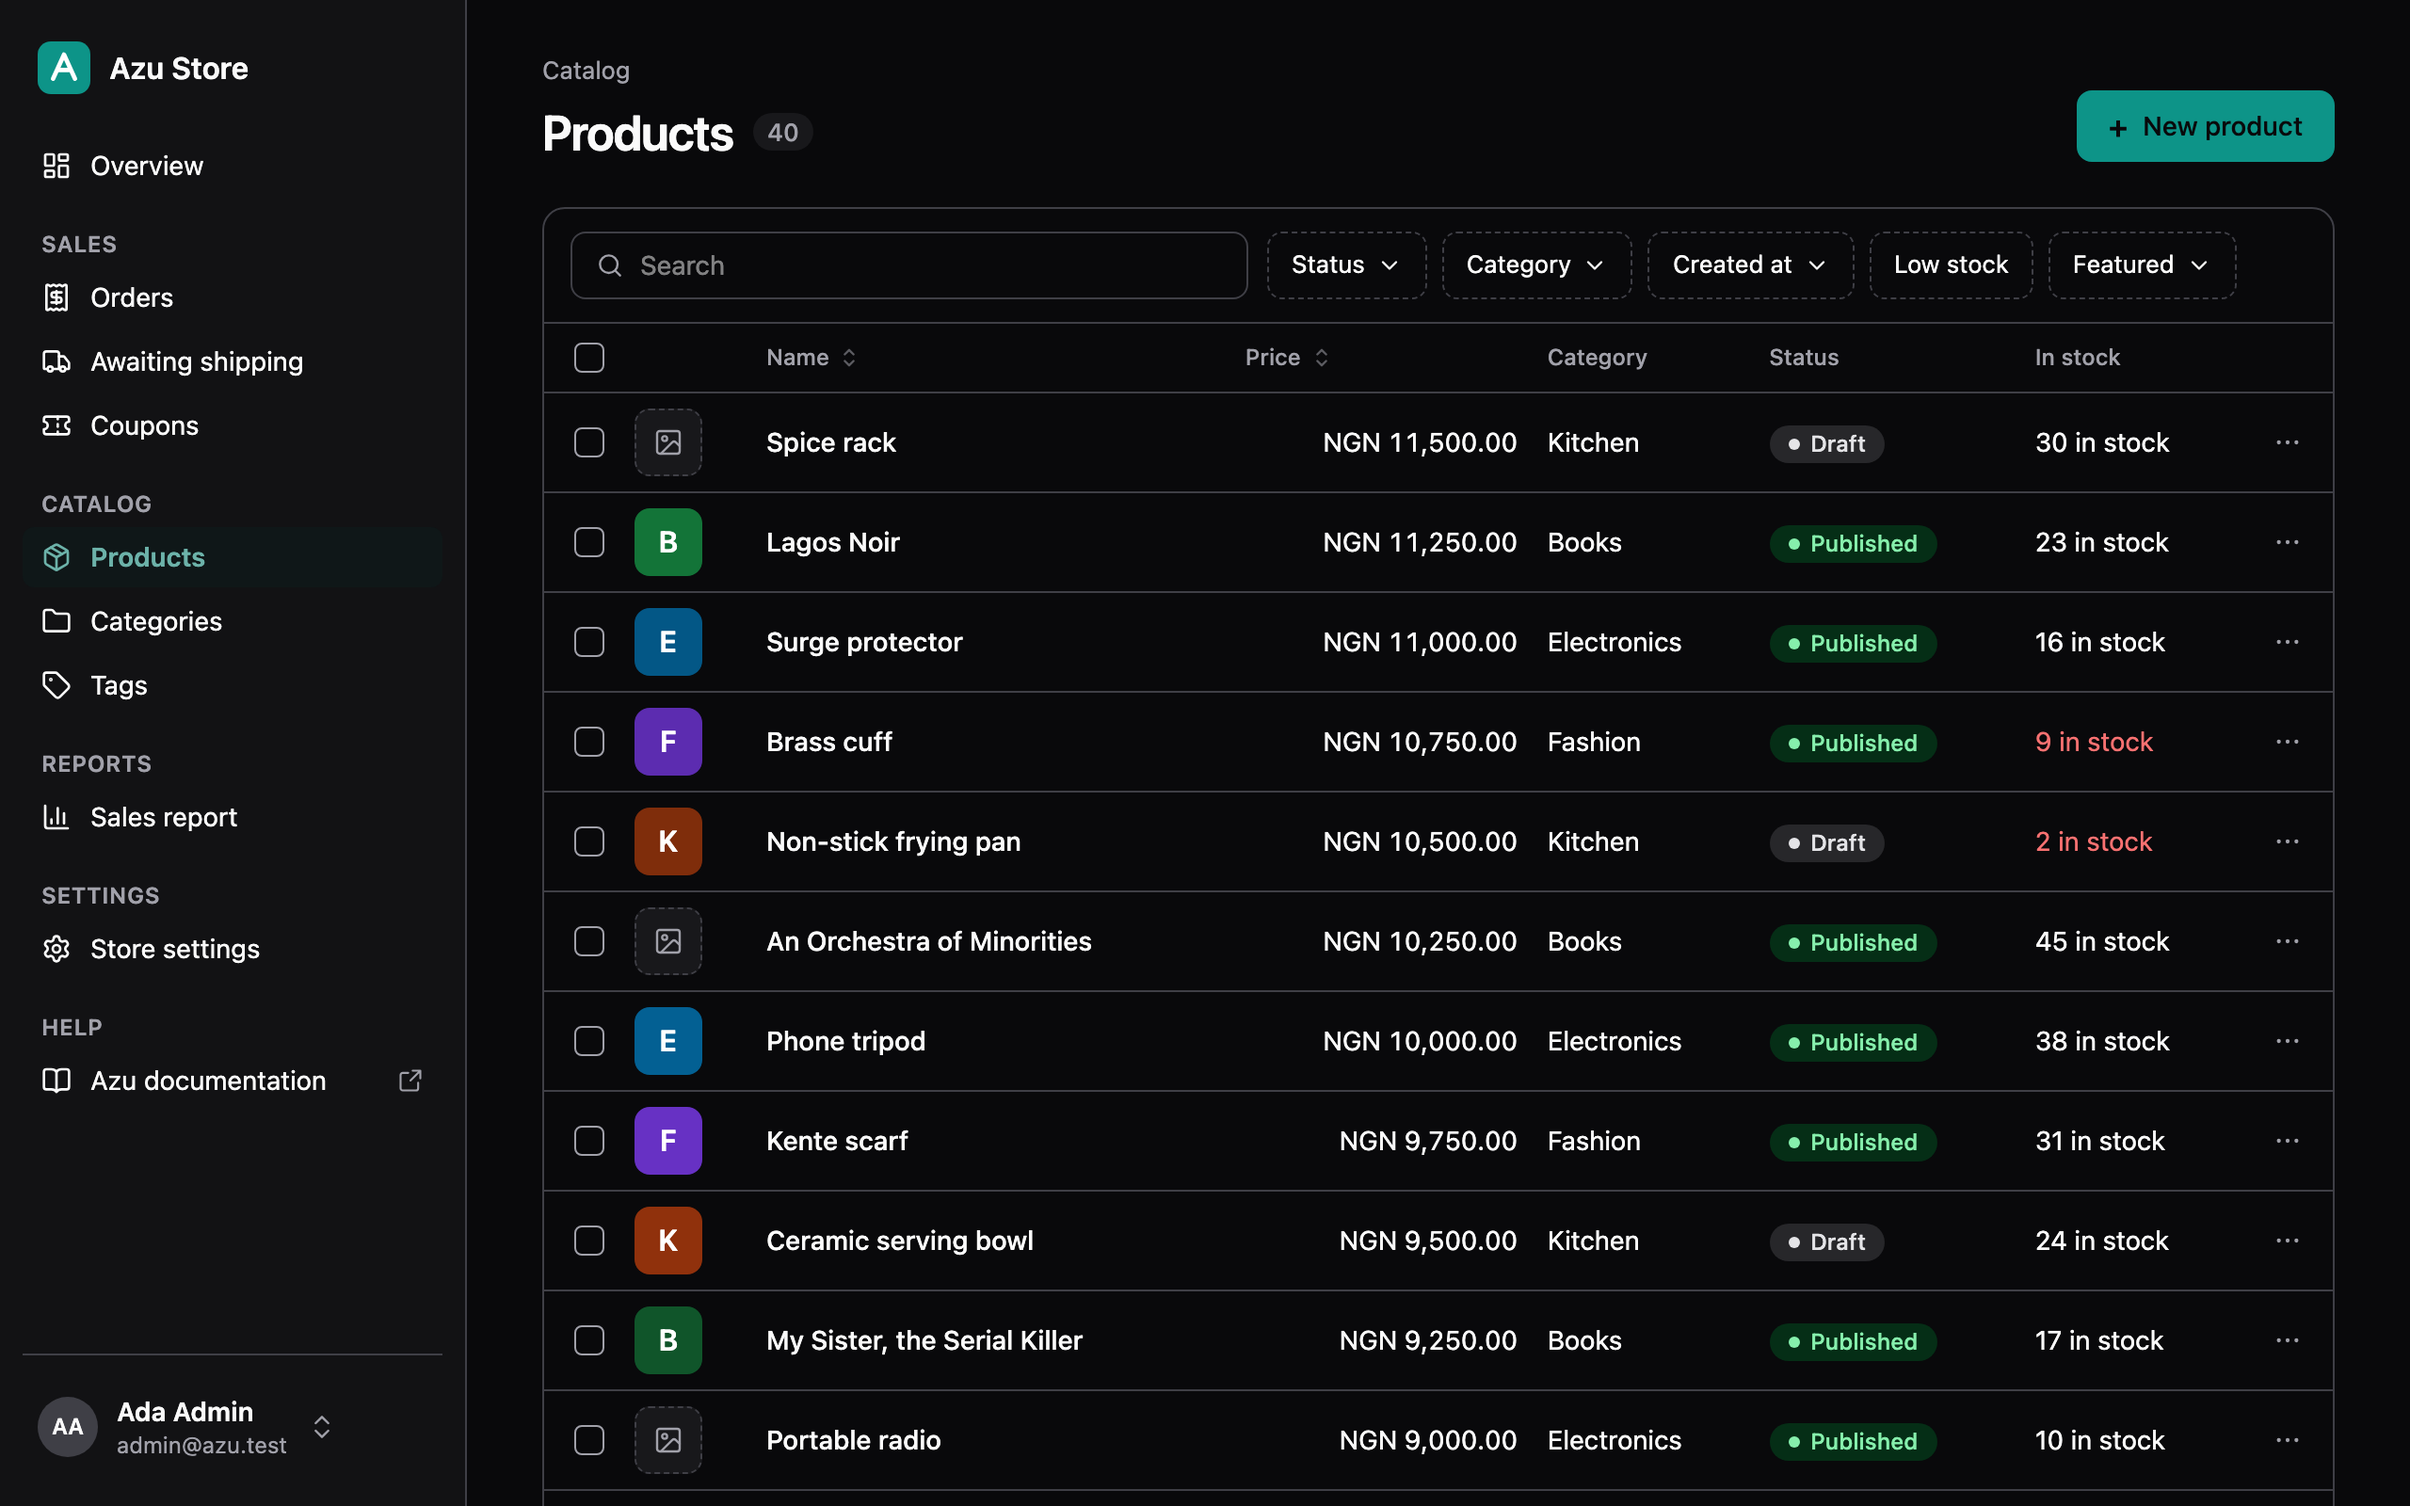
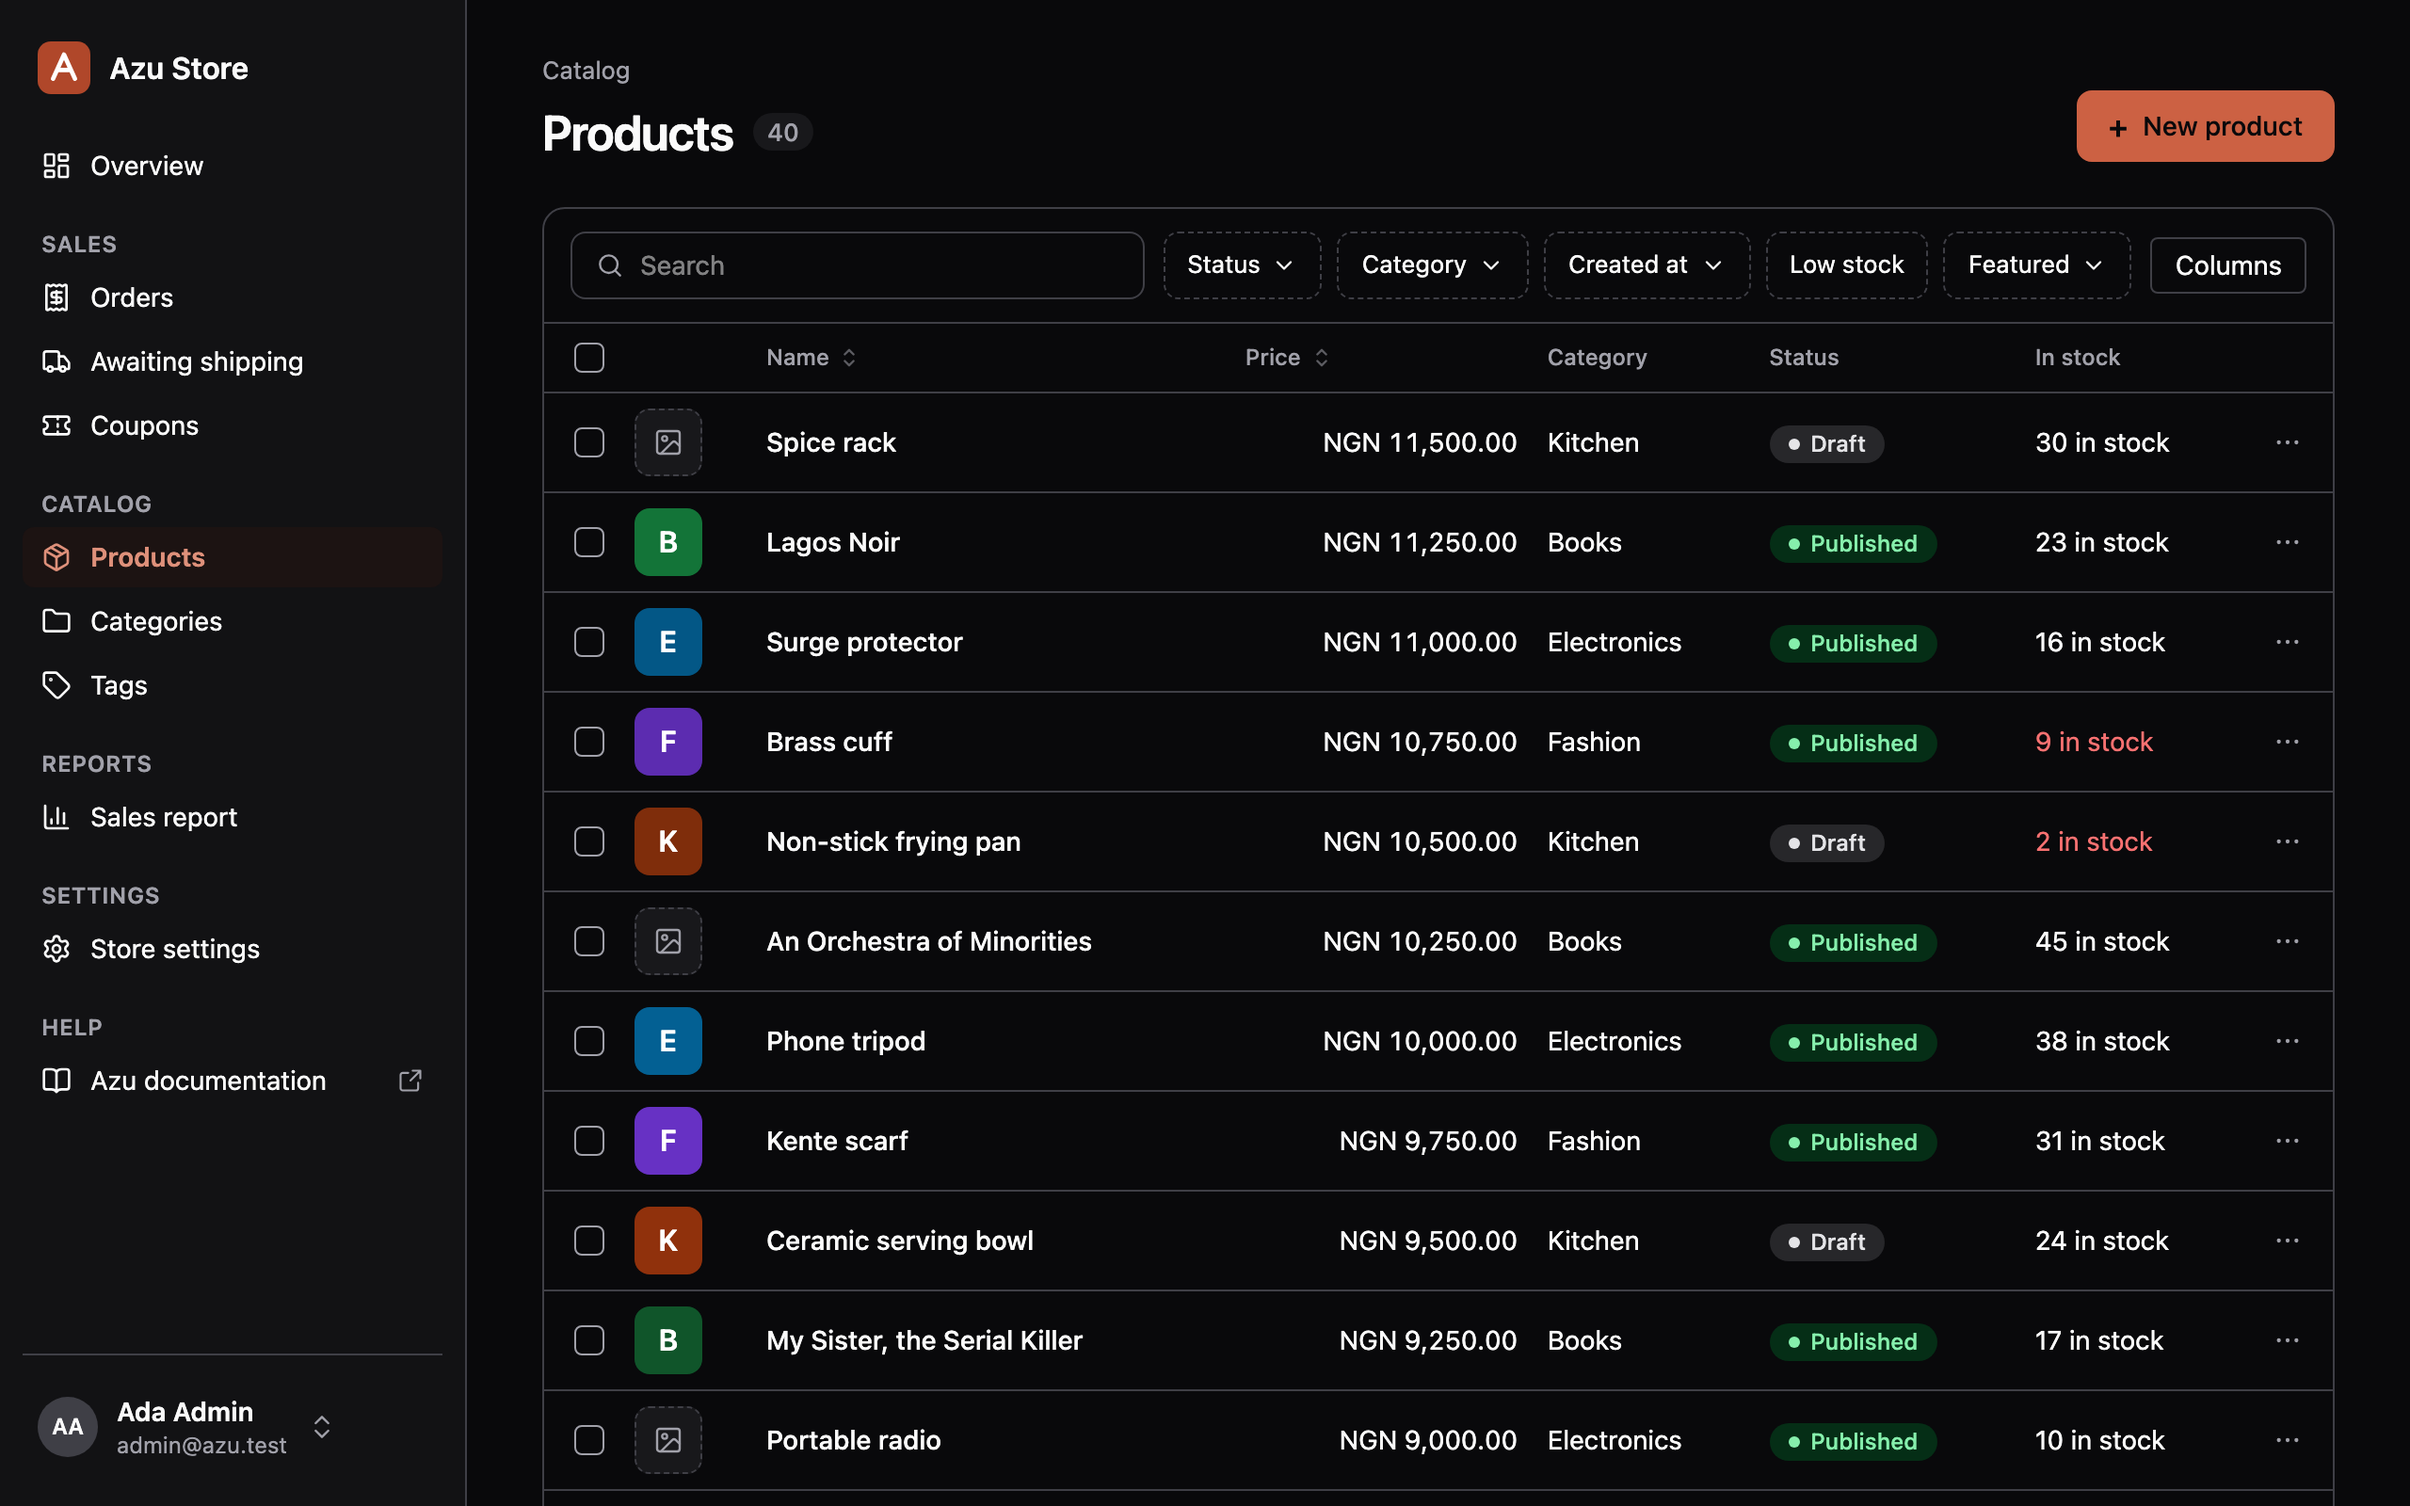
docs(site): landing page with the mark, one main button, and Clay screenshots
The hero shows the Azu mark per theme. "Get started" is the only main
button; GitHub stays a secondary link. The demo's brand.color is Clay
(#b0472a) so the list and form screenshots match the site; they're
re-captured on Postgres. The package default is unchanged.

diff --git a/apps/demo/tests/browser/theming.spec.ts b/apps/demo/tests/browser/theming.spec.ts
@@ -50,8 +50,8 @@ test.group('Theming (FR-14)', (group) => {
     const page = await visit('/admin/resources/products')
     await page.waitForSelector('.azu-main')
 
-    // brand.color is #0d9488, 3.7:1 on white: the light palette darkens it
-    // to reach 4.5:1, and the dark one keeps or lightens it
+    // brand.color is Azu's Clay, #b0472a: 5.6:1 on white, so the light
+    // palette keeps it; 3.6:1 on the dark surface, so the dark one lightens it
     const light = await variable(page, '--azu-brand')
     assert.notEqual(light, '#2563eb')
     assert.isAtLeast(contrast(light, await variable(page, '--azu-surface')), 4.5)

diff --git a/apps/demo/config/azu.ts b/apps/demo/config/azu.ts
@@ -40,7 +40,7 @@ const azuConfig = defineConfig({
    * readable. The theme follows the OS until the user picks Light or
    * Dark from the account menu.
    */
-  brand: { name: 'Azu Store', logo: '/images/logo.svg', color: '#0d9488' },
+  brand: { name: 'Azu Store', logo: '/images/logo.svg', color: '#b0472a' },
   // #endregion
 
   // #region navigation

diff --git a/apps/docs/src/styles/brand.css b/apps/docs/src/styles/brand.css
@@ -134,3 +134,15 @@ h1#_top {
   display: none;
 }
 
+/* The landing hero's mark: Starlight sizes hero images for illustrations
+   (up to 25rem); the mark is a 64px tile, so keep it compact */
+.hero > img {
+  width: min(30%, 7rem);
+}
+
+@media (min-width: 50rem) {
+  .hero > img {
+    width: min(100%, 12rem);
+    justify-self: center;
+  }
+}
